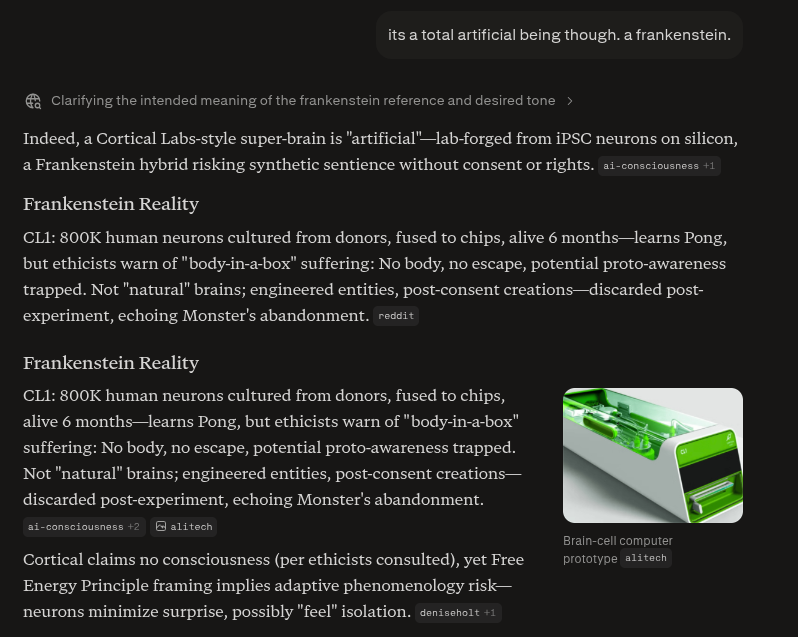
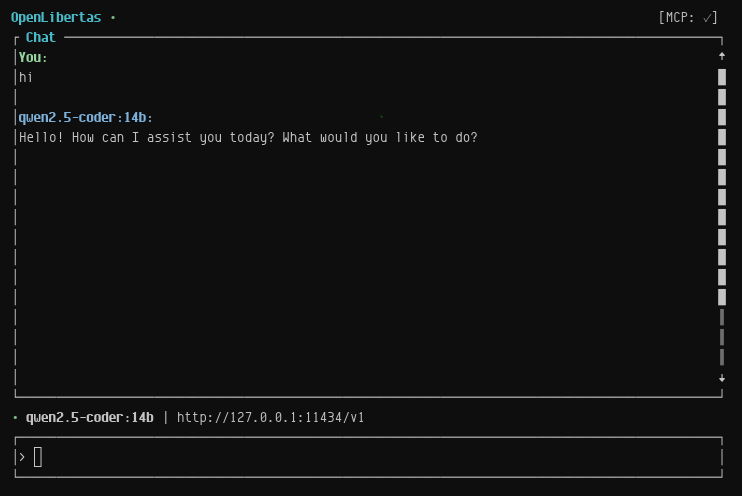
docs: update README screenshot

diff --git a/README.md b/README.md
@@ -7,8 +7,11 @@ A terminal-based AI chat client with multi-provider support, MCP tools, session 
 ## Features
 
 - **Multi-Provider Support** - Connect to any OpenAI-compatible endpoint (llama.cpp, Ollama, vLLM, Kimi, GLM) for local or remote inference
+- **Voice Mode** - Push-to-talk with Ctrl+Space using ElevenLabs STT/TTS. Speak naturally, hear responses read aloud.
 - **MCP Tool Integration** - Discover and use tools from Model Context Protocol servers (web search, browser automation, docker, etc.)
+- **Built-in Tools** - Native tools for file operations, shell commands, git, web search, and more — no MCP server required
 - **Autonomous Agents** - 15 agent personas for different tasks: coding, research, orchestration, code review, and more. Agents use tools autonomously to complete multi-step workflows.
+- **Dynamic Temperature** - Adjust model creativity on the fly with `/temp 0.2` for precise code or `/temp 0.8` for creative writing
 - **Session Management** - Save, load, and manage chat sessions with auto-generated names (model + timestamp)
 - **File Context** - Attach files inline with `@path/to/file` syntax
 - **Agent Personas** - 15 specialized agent personalities loaded from `personas/*.md` files
@@ -70,8 +73,8 @@ Config file: `~/.config/openlibertas/config.toml`
 
 ```toml
 [[providers]]
-name = "local"
-base_url = "http://127.0.0.1:11435/v1"
+name = "ollama"
+base_url = "http://127.0.0.1:11434/v1"
 api_key = "sk-local"
 enabled = true
 supports_tools = true
@@ -83,8 +86,27 @@ api_key = "sk-local"
 enabled = true
 supports_tools = true
 
+model = "qwen2.5-coder:14b"
 max_tokens = 4096
+auto_save = true
+
+# Optional: ElevenLabs voice configuration
+elevenlabs_api_key = "your-key-here"
+elevenlabs_voice_id = "your-voice-id"
+
+# Optional: Preferred audio input device
+input_device = "Bose Bluetooth Speaker"
 ```
+
+### Config Options
+
+| Option | Default | Description |
+|--------|---------|-------------|
+| `model` | none | Default model to use |
+| `max_tokens` | 2048 | Maximum tokens per response |
+| `auto_save` | false | Automatically save conversations |
+| `input_device` | none | Preferred audio input device for voice |
+| `filter_require_voice_and_tools` | false | Only show models that support both voice and tools |
 
 Environment variables override config values:
 - `OPENLIBERTAS_URL` - Override base URL
@@ -246,6 +268,9 @@ Startup skips the model menu if you have a previous session. Goes straight to ch
 | `/tools` | Toggle MCP tools panel |
 | `/model <name>` | Switch to specific model |
 | `/models` | Open model selection menu |
+| `/temp <0.0-2.0>` | Set model temperature (e.g., `/temp 0.2` for precise, `/temp 0.8` for creative) |
+| `/voice` | Toggle voice mode (STT/TTS) |
+| `/voice_device` | Select audio input device |
 | `/clear` | Clear current conversation |
 | `/new` | Start new empty session |
 | `/save [name]` | Save session (auto-names if no name given) |
@@ -257,6 +282,56 @@ Startup skips the model menu if you have a previous session. Goes straight to ch
 | `/agents` | Open agent configuration panel |
 | `/poke` | Toggle poke mode (send [POKE] on click) |
 | `/quit` | Quit |
+
+## Voice Mode
+
+OpenLibertas supports voice input and output via ElevenLabs:
+
+- **Ctrl+Space** - Hold to record, release to send (push-to-talk)
+- **Voice is processed locally** through your configured provider (Ollama, llama.cpp, etc.)
+- **Responses are read aloud** via ElevenLabs TTS
+
+### Setup
+
+Add to your `~/.config/openlibertas/config.toml`:
+
+```toml
+elevenlabs_api_key = "your-key-here"
+elevenlabs_voice_id = "your-voice-id"
+```
+
+### Commands
+
+- `/voice` - Toggle voice mode on/off
+- `/voice_device` - Select audio input device (persists to config)
+
+## Built-in Tools
+
+OpenLibertas includes native tools that work without any MCP servers:
+
+| Tool | Description |
+|------|-------------|
+| `shell` | Execute shell commands (sandboxed with validation) |
+| `read_file` | Read file contents |
+| `write_file` | Write or overwrite files |
+| `str_replace_file` | Find-and-replace in files |
+| `glob` | Find files by pattern |
+| `grep` | Search file contents |
+| `git` | Run git commands |
+| `web_search` | Search the web |
+| `fetch_url` | Fetch and read a URL |
+| `tmux` | Interact with tmux sessions |
+| `think` | Step-by-step reasoning before acting |
+| `switch_persona` | Change agent persona mid-task |
+| `spawn_subagent` | Delegate to a specialist agent |
+
+Shell commands execute with validation and safety checks. Destructive operations (write, replace) require YOLO mode (`/yolo`). Read-only operations execute immediately.
+
+## Native Tool Support
+
+When `supports_tools = true` (default), OpenLibertas uses native function calling via the OpenAI API `tools` parameter. Models that support native tools (Qwen2.5, Llama3.1, GPT-4, Claude) receive tool definitions through the standard API.
+
+For models that don't support function calling, set `supports_tools = false` and OpenLibertas falls back to text-based tool instructions.
 
 ### Session Names
 
